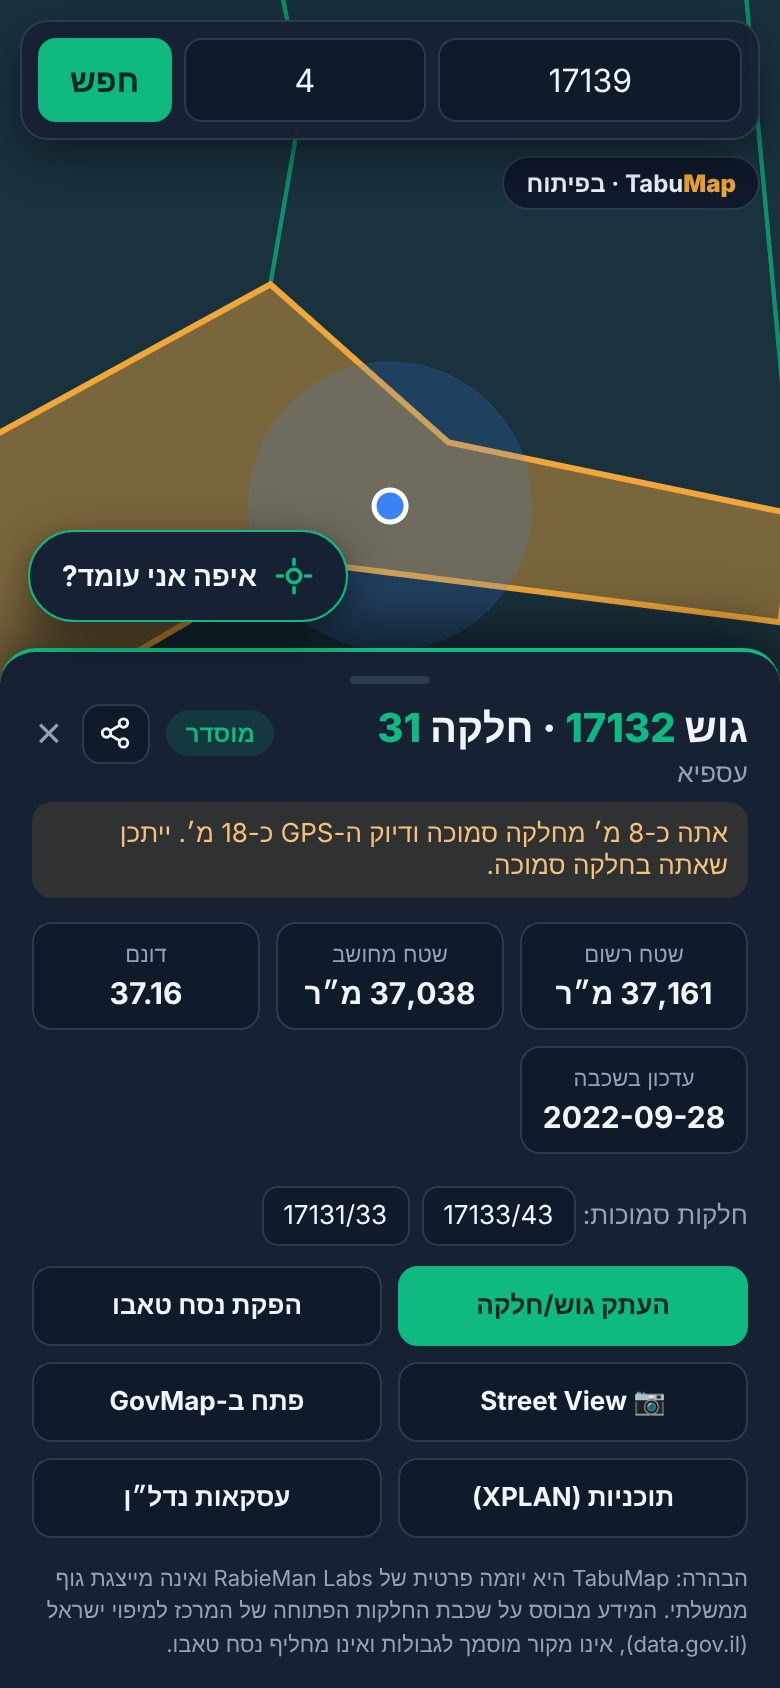
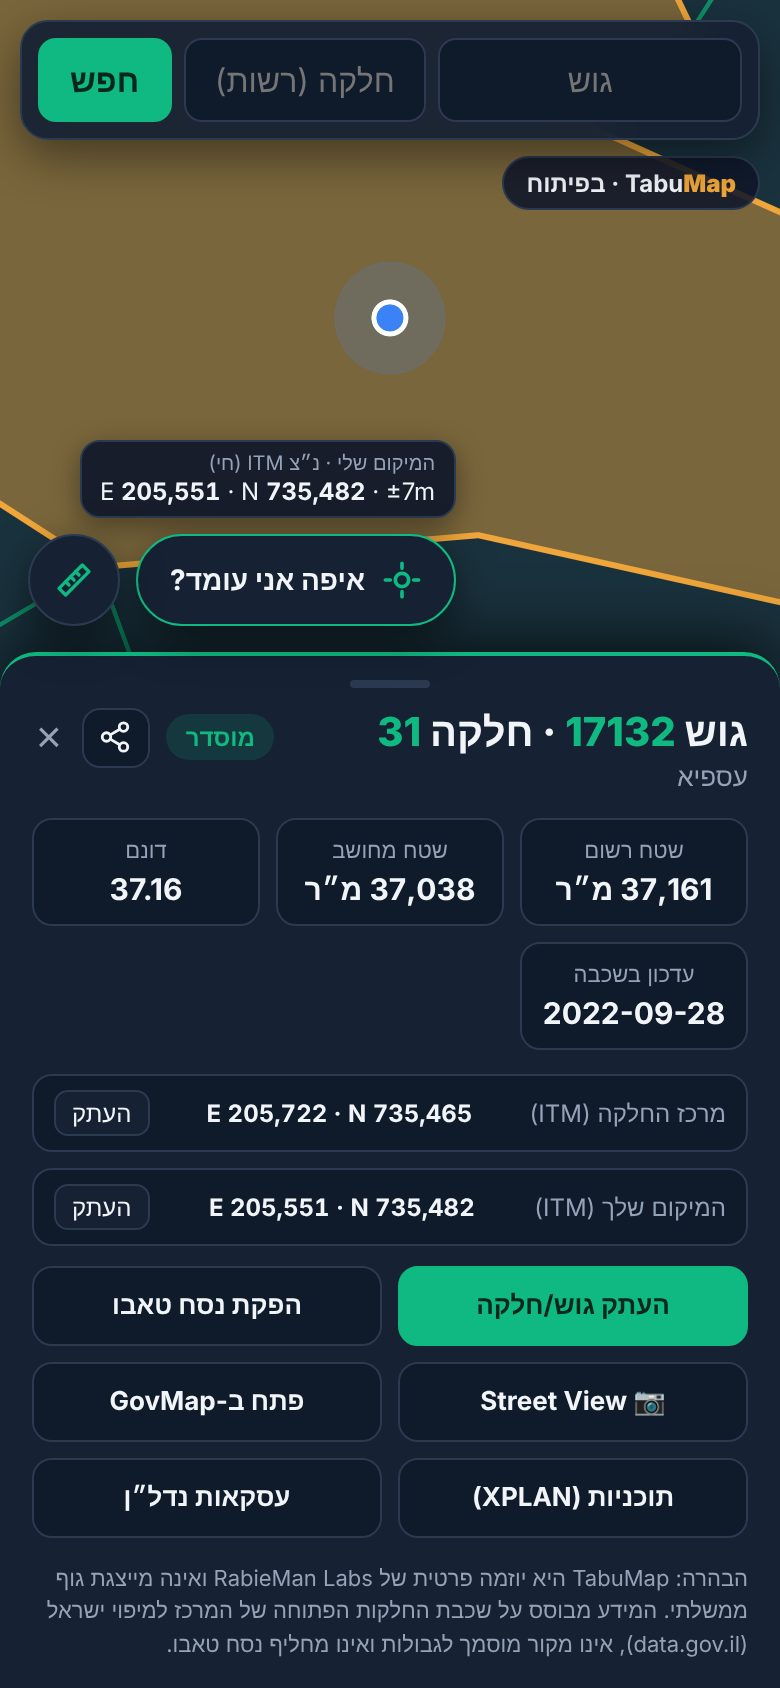
Landing: new screenshots (live ITM, parcel card with ITM, area measurement)
Claude-Session: https://claude.ai/code/session_01VLMtTQgPnMJgmWQRScFxBP

diff --git a/index.html b/index.html
@@ -47,7 +47,7 @@ footer{border-top:1px solid var(--line);margin-top:40px;padding-top:16px;color:v
 </div>
 
 <div class="shots">
- <img src="img/03-gps-he.jpg" alt="איתור חלקה לפי GPS, עם אזהרה על חלקה סמוכה"><img src="img/02-parcel-he.jpg" alt="כרטיס חלקה: שטח רשום, שטח מחושב ודונם"><img src="img/01-gush-he.jpg" alt="חיפוש לפי מספר גוש">
+ <img src="img/03-gps-he.jpg?v=2" alt="איתור חלקה לפי GPS, עם נ״צ רשת ישראל בזמן אמת"><img src="img/02-parcel-he.jpg?v=2" alt="כרטיס חלקה: שטחים, דונם ונ״צ ITM של מרכז החלקה"><img src="img/01-measure-he.jpg" alt="מדידת שטח בדונם על גבי החלקות">
 </div>
 
 <div class="grid">
